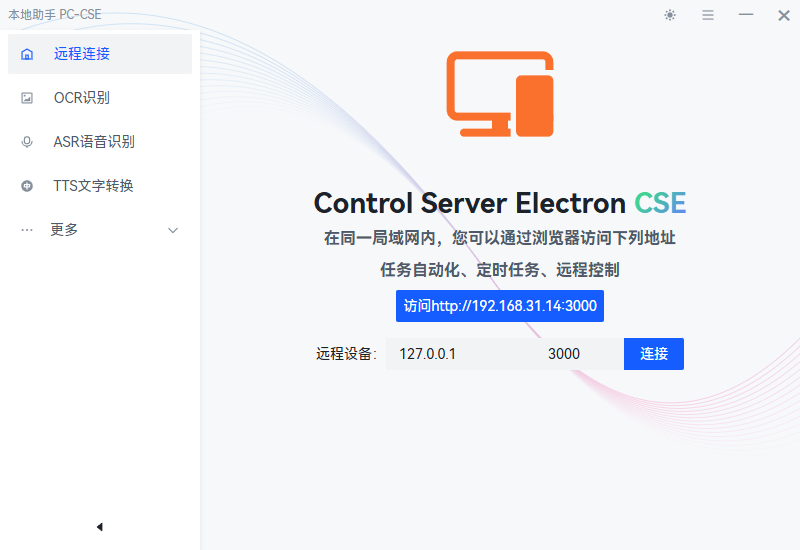
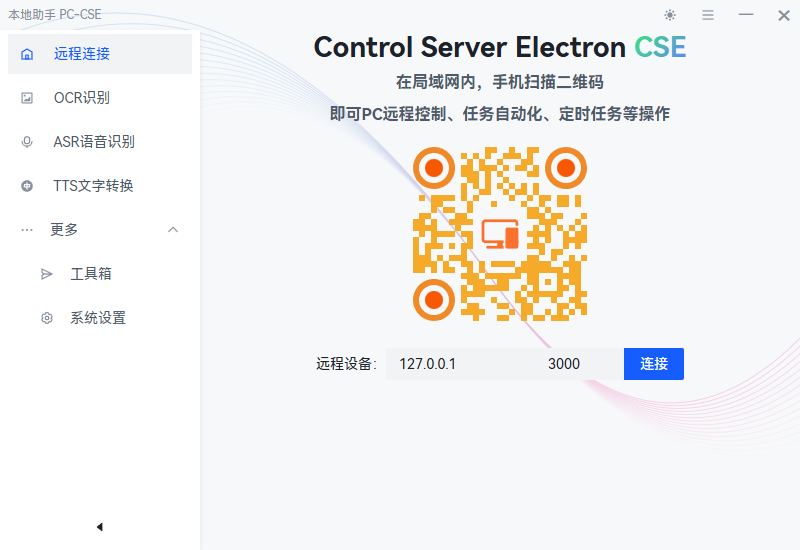
feat: add qr and optimize ui

diff --git a/src/main/sever/main.ts b/src/main/sever/main.ts
@@ -1,16 +1,15 @@
-import {createServer} from 'http'
-import {Server} from 'socket.io'
-import {registerSocketHandlers} from './src/socketEvent.js'
+import { createServer } from 'http'
+import { Server } from 'socket.io'
+import { registerSocketHandlers } from './src/socketEvent.js'
 import startWebServer from './src/webServer.js'
 import express from 'express'
-import {getJobList, runJob} from './src/eventSchedule'
-import {db} from "./src/database";
-import {ExtendedError} from "socket.io/dist/namespace";
+import { getJobList, runJob } from './src/eventSchedule'
+import { db } from './src/database'
+import { ExtendedError } from 'socket.io/dist/namespace'
 
-
-let io;
-const InitWinControlServer =  (port: number): Promise<number> => {
-  return new Promise(async (resolve, reject) => {
+let io
+const InitWinControlServer = (port: number, hostname: string): Promise<number> => {
+  return new Promise((resolve, reject) => {
     const webExpress = express()
     const httpServer = createServer(webExpress)
     startWebServer(webExpress)
@@ -22,10 +21,10 @@ const InitWinControlServer =  (port: number): Promise<number> => {
 
     io.use((socket, next) => {
       const token = socket.handshake.auth.token
-      const decoded = token === (global.setting.token)
+      const decoded = token === global.setting.token
       if (!decoded || !token) {
-        const error: ExtendedError = new Error('令牌验证失败');
-        error.data = {code: 401}
+        const error: ExtendedError = new Error('令牌验证失败')
+        error.data = { code: 401 }
         return next(error)
       }
       // 将用户信息附加到socket对象
@@ -45,55 +44,56 @@ const InitWinControlServer =  (port: number): Promise<number> => {
     })
 
     db.app.get('app:LaunchNum').then((num) => {
-      num = (num && typeof num === "number") ? num : 0
+      num = num && typeof num === 'number' ? num : 0
       if (num < 1) {
         console.log('首次启动，初始化默认指令...')
-        db.events.put("f6749f0c-d95b-40e8-8f9f-40ecb38b623e",
-          {
-            "name": "腾旭视频",
-            "color": "#22bdff",
-            "events": [{"event": "open-url", "eventData": {"url": "https://v.qq.com/"}, "delay": 0}],
-            "id": "f6749f0c-d95b-40e8-8f9f-40ecb38b623e"
-          }
-        ).then()
-        db.events.put("f7749f0c-d95b-40e8-8f9f-40ecb38b623e",
-          {
-            "name": "移动鼠标",
-            "color": "#22bdff",
-            "events": [{"event": "sys-pointer-move", "eventData": {"x": 500, "y": 500}, "delay": 0}],
-            "id": "f7749f0c-d95b-40e8-8f9f-40ecb38b623e"
-          }
-        ).then()
+        db.events
+          .put('f6749f0c-d95b-40e8-8f9f-40ecb38b623e', {
+            name: '腾旭视频',
+            color: '#22bdff',
+            events: [{ event: 'open-url', eventData: { url: 'https://v.qq.com/' }, delay: 0 }],
+            id: 'f6749f0c-d95b-40e8-8f9f-40ecb38b623e'
+          })
+          .then()
+        db.events
+          .put('f7749f0c-d95b-40e8-8f9f-40ecb38b623e', {
+            name: '移动鼠标',
+            color: '#22bdff',
+            events: [{ event: 'sys-pointer-move', eventData: { x: 500, y: 500 }, delay: 0 }],
+            id: 'f7749f0c-d95b-40e8-8f9f-40ecb38b623e'
+          })
+          .then()
       }
       db.app.put('app:LaunchNum', num + 1).then()
     })
 
-
     httpServer.on('error', (err: NodeJS.ErrnoException) => {
+      console.error(`Server code ${err.code}`, err)
       if (err.code === 'EADDRINUSE') {
         console.log(`Port ${port} is occupied, trying ${port + 1}...`)
-        resolve(InitWinControlServer(port + 1))
+        resolve(InitWinControlServer(port + 1, hostname))
+      } else if (err.code === 'EADDRNOTAVAIL') {
+        resolve(InitWinControlServer(port + 1, '0.0.0.0'))
       } else {
-        console.error('Server error:', err)
         // process.exit(1);
         reject(err)
       }
     })
 
     // 启动服务器
-    httpServer.listen(port, () => {
+    httpServer.listen(port, hostname, () => {
       console.log(`WinControl service running on port ${port}`)
       resolve(port)
     })
   })
 }
 
-const disconnectSockets =()=>{
-  if(!io){
-    console.error("disconnectSockets:socket.io is not running");
-    return;
+const disconnectSockets = (): void => {
+  if (!io) {
+    console.error('disconnectSockets:socket.io is not running')
+    return
   }
-  io.emit('reconnected');
+  io.emit('reconnected')
 }
 
-export {InitWinControlServer,disconnectSockets}
+export { InitWinControlServer, disconnectSockets }

diff --git a/src/renderer/src/views/Home/index.vue b/src/renderer/src/views/Home/index.vue
@@ -1,36 +1,34 @@
 <script setup lang="ts">
 import { useRemoteStore } from '@renderer/store/remote'
-
+import { onMounted, ref } from 'vue'
+import QRCodeStyling from 'qr-code-styling'
+import { Message } from '@arco-design/web-vue'
 const remoteStore = useRemoteStore()
+const qrContainer = ref<HTMLDivElement>()
+onMounted(async () => {
+  const qrCode = new QRCodeStyling(remoteStore.qrOptions)
+  qrCode.append(qrContainer.value as HTMLDivElement)
+  remoteStore.serverPort = await window.api.getControlServerPort()
+  remoteStore.ips = await window.api.getLocalIPs()
+
+  console.log(remoteStore.ips)
+  if (remoteStore.ips && remoteStore.ips.length) {
+    qrCode.update({ data: `http://${remoteStore.ips![0]}:${remoteStore.devicePort}` })
+  } else {
+    Message.error('获取本机的网卡信息识别！')
+  }
+})
 </script>
 
 <template>
   <div class="main-view">
-    <img alt="logo" class="logo" src="@renderer/assets/logo.svg" />
     <div class="text">
       Control Server Electron
       <span class="vue">CSE</span>
     </div>
-    <p class="tip">在同一局域网内，您可以通过浏览器访问下列地址</p>
-    <p class="tip">任务自动化、定时任务、远程控制</p>
-    <a-space wrap>
-      <template #split>
-        <a-divider direction="vertical" />
-      </template>
-      <a-button
-        v-for="ip in remoteStore.ips"
-        :key="ip"
-        type="primary"
-        class="action"
-        @click="
-          remoteStore.openRemoteWindow({
-            id: 'self',
-            url: `http://localhost:${remoteStore.serverPort}`
-          })
-        "
-        >访问http://{{ ip }}:{{ remoteStore.serverPort }}
-      </a-button>
-    </a-space>
+    <p class="tip">在局域网内，手机扫描二维码</p>
+    <p class="tip">即可PC远程控制、任务自动化、定时任务等操作</p>
+    <div ref="qrContainer" class="qr-container"></div>
     <a-input-group>
       <a-typography-text> 远程设备： </a-typography-text>
       <a-input
@@ -75,12 +73,18 @@ const remoteStore = useRemoteStore()
   -webkit-user-drag: none;
   height: 128px;
   width: 128px;
-  will-change: filter;
-  transition: filter 300ms;
 }
 
 .logo:hover {
   filter: drop-shadow(0 0 1.2em #6988e6aa);
+}
+
+.qr-container {
+  will-change: filter;
+  transition: filter 300ms;
+}
+.qr-container:hover {
+  filter: drop-shadow(0 0 1.2em rgb(246, 72, 97, 0.3));
 }
 
 .text {

diff --git a/src/renderer/src/store/remote.ts b/src/renderer/src/store/remote.ts
@@ -1,26 +1,23 @@
 import { defineStore } from 'pinia'
-import { onMounted, ref } from 'vue'
+import { ref } from 'vue'
 import { Message } from '@arco-design/web-vue'
-
+import { Options } from 'qr-code-styling'
+import logo from '@renderer/assets/logo.svg'
 export const useRemoteStore = defineStore('remote', () => {
   const deviceCode = ref<string>('127.0.0.1')
   const devicePort = ref<number>(3000)
   const isLoading = ref<boolean>(false)
 
   const serverPort = ref<number>()
-  const ips = ref<string[]>()
+  const ips = ref<string[]>([])
 
-  onMounted(async () => {
-    serverPort.value = await window.api.getControlServerPort()
-    ips.value = await window.api.getLocalIPs()
-    window.electron.ipcRenderer.on('openWindow-resp', (_, success: boolean) => {
-      isLoading.value = false
-      if (success) {
-        Message.success('正在连接中...')
-      } else {
-        Message.error('无法连接对方设备')
-      }
-    })
+  window.electron.ipcRenderer.on('openWindow-resp', (_, success: boolean) => {
+    isLoading.value = false
+    if (success) {
+      Message.success('正在连接中...')
+    } else {
+      Message.error('无法连接对方设备')
+    }
   })
 
   const openRemoteWindow = (data): void => {
@@ -28,5 +25,22 @@ export const useRemoteStore = defineStore('remote', () => {
     window.electron.ipcRenderer.send('openRemoteWindow', data)
   }
 
-  return { deviceCode, devicePort, isLoading, ips, serverPort, openRemoteWindow }
+  // 配置二维码参数
+  const qrOptions: Partial<Options> = {
+    type: 'svg',
+    shape: 'square',
+    width: 200,
+    height: 200,
+    data: 'loading...',
+    image: logo,
+    margin: 10,
+    qrOptions: { mode: 'Byte', errorCorrectionLevel: 'Q' },
+    imageOptions: { saveAsBlob: true, hideBackgroundDots: true, imageSize: 0.5, margin: 5 },
+    dotsOptions: { type: 'square', color: '#f5aa29', roundSize: true },
+    backgroundOptions: { round: 0, color: 'none' },
+    cornersSquareOptions: { type: 'dot', color: '#f08928' },
+    cornersDotOptions: { type: 'dot', color: '#f75802' }
+  }
+
+  return { deviceCode, devicePort, isLoading, ips, serverPort, openRemoteWindow, qrOptions }
 })

diff --git a/src/renderer/src/components/Settings.vue b/src/renderer/src/components/Settings.vue
@@ -2,17 +2,19 @@
 import { onMounted, ref } from 'vue'
 import { Setting } from '../env'
 import { useAppStore } from '../store/app'
+import { useRemoteStore } from '../store/remote'
 import Versions from '@renderer/components/Versions.vue'
 
 const appStore = useAppStore()
-const settingForm = ref<Setting>({ token: '', port: 0 })
+const remoteStore = useRemoteStore()
+const settingForm = ref<Setting>({ token: '', port: 0, hostname: '' })
 
 onMounted(async () => {
   await appStore.initSetting()
-  settingForm.value = { ...appStore.settings }
+  settingForm.value = { ...appStore.settings } as Setting
 })
 
-const handleSubmit = () => {
+const handleSubmit = (): void => {
   appStore.updateSettings(settingForm.value)
   appStore.settingsVisible = false
 }
@@ -46,7 +48,13 @@ const handleSubmit = () => {
     title-align="start"
   >
     <a-form :model="settingForm" @submit="handleSubmit">
-      <a-form-item field="port" tooltip="启动端口" label="启动端口">
+      <a-form-item field="hostname" tooltip="默认绑定所有网络IP接口,可手动指定" label="主机IP">
+        <a-select v-model="settingForm.hostname" placeholder="主机IP">
+          <a-option value="0.0.0.0">所有</a-option>
+          <a-option v-for="ip in remoteStore.ips" :key="ip" :value="ip">{{ ip }}</a-option>
+        </a-select>
+      </a-form-item>
+      <a-form-item field="port" tooltip="端口" label="端口">
         <a-input-number v-model="settingForm.port" placeholder="端口号" />
       </a-form-item>
       <a-form-item field="name" tooltip="连接的令牌" label="访问令牌">

diff --git a/src/renderer/src/store/app.ts b/src/renderer/src/store/app.ts
@@ -5,7 +5,7 @@ import { useResizeObserver, useStorage } from '@vueuse/core'
 
 export const useAppStore = defineStore('app', () => {
   // 主区域ref
-  const mainLayout = useTemplateRef<HTMLDivElement>('main_layout')
+  const mainLayout = useTemplateRef<HTMLDivElement>('mainLayout')
   // 主区域大小
   const mainLayoutWH = ref<{ width: number; height: number }>({
     width: mainLayout.value?.offsetWidth || 600,
@@ -19,7 +19,7 @@ export const useAppStore = defineStore('app', () => {
 
   // 系统设置参数
   const settingsVisible = ref(false)
-  const settings = ref<Setting>({ token: 'ssss', port: 3000 })
+  const settings = ref<Setting>()
   // 关于显隐
   const aboutVisible = ref(false)
   // 主题

diff --git a/src/main/ipc/application.ts b/src/main/ipc/application.ts
@@ -9,9 +9,10 @@ ipcMain.on('window-minimize', () => global.mainWindow.minimize())
 ipcMain.on('window-close', () => global.mainWindow.close())
 ipcMain.on('update-settings', (_, { settings }) => {
   db.app.put('app:settings', settings).then(() => {
-    console.log('update-settings', global.setting, settings)
-
-    if (global.controlServerPort !== settings.port) {
+    if (
+      global.controlServerPort !== settings.port ||
+      global.setting.hostname !== settings.hostname
+    ) {
       app.relaunch()
       app.exit(0)
     }

diff --git a/src/main/index.ts b/src/main/index.ts
@@ -40,7 +40,10 @@ async function createWindow(): Promise<void> {
   console.log('启动control-server')
   global.setting = await db.getSettings()
   global.mainWindow = mainWindow
-  global.controlServerPort = await InitWinControlServer(global.setting.port)
+  global.controlServerPort = await InitWinControlServer(
+    global.setting.port,
+    global.setting.hostname
+  )
   global.childWindow = {}
   // InitAsrTts()
   // IPC

diff --git a/src/renderer/src/App.vue b/src/renderer/src/App.vue
@@ -19,7 +19,7 @@ onMounted(() => {
     <a-layout-header><TitleBar /> </a-layout-header>
     <a-layout>
       <LeftMenu />
-      <a-layout-content ref="main_layout"> <RouterView /></a-layout-content>
+      <a-layout-content ref="mainLayout"> <RouterView /></a-layout-content>
     </a-layout>
     <a-layout-footer></a-layout-footer>
   </a-layout>

diff --git a/src/main/sever/src/database.ts b/src/main/sever/src/database.ts
@@ -29,7 +29,7 @@ const getAll = async (db) => {
 
 const getSettings = async () => {
   const settings = await db.app.get('app:settings')
-  return settings || { port: 3000, token: 'ssss' }
+  return settings || { port: 3000, token: 'ssss', hostname: '0.0.0.0' }
 }
 
 const db = {

diff --git a/src/renderer/src/env.d.ts b/src/renderer/src/env.d.ts
@@ -20,6 +20,7 @@ declare global {
 type Setting = {
   token: string
   port: number
+  hostname: string
 }
 
 /**
